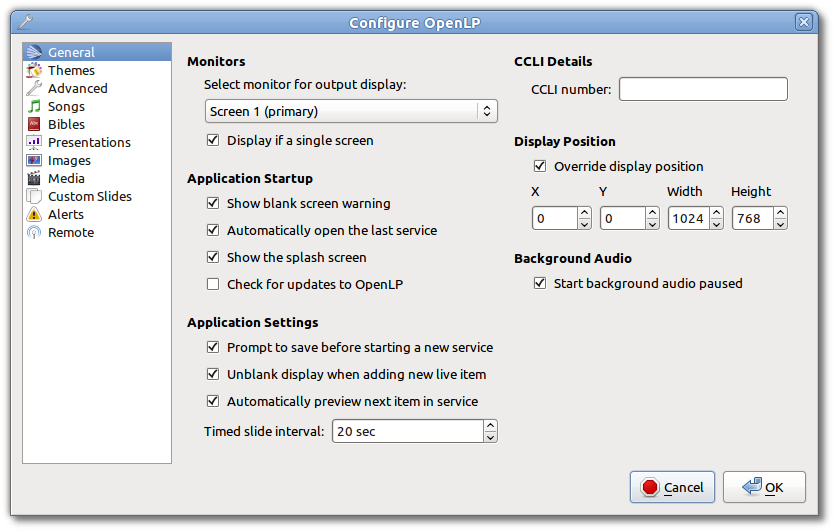
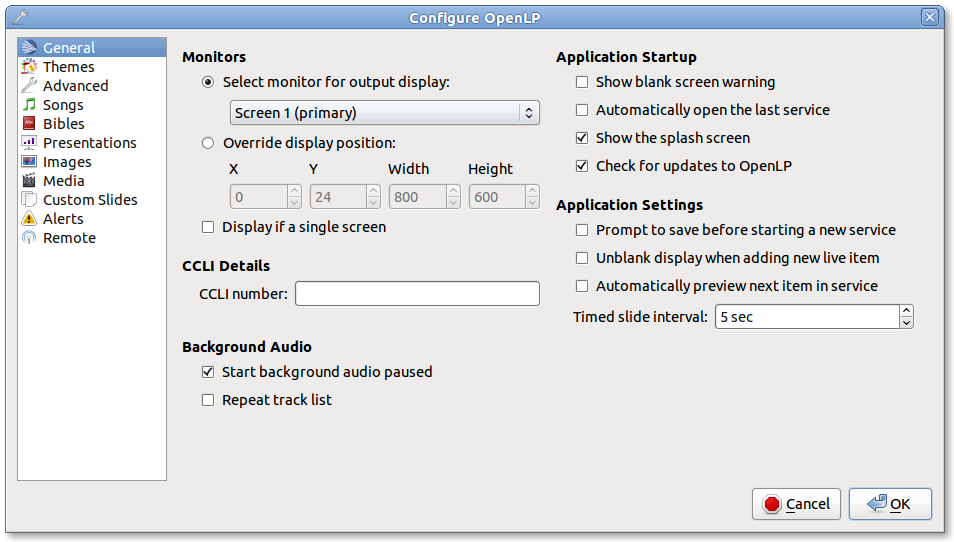
corrections to the configure settings

Changed region(s): [[0.0, 0.0, 1.0, 1.0], [0.1868, 0.6015, 0.5916, 0.8421], [0.1557, 0.8421, 0.1868, 0.8722]]

diff --git a/manual/source/configure.rst b/manual/source/configure.rst
@@ -22,12 +22,37 @@ Monitors
 To select the monitor you want to display OpenLP on, click the drop-down box 
 and choose. 
 
+Override Display Position
+^^^^^^^^^^^^^^^^^^^^^^^^^
+This setting will default to your computer monitor. It will override the output 
+display combo box.  If your projector display is different, select the Override 
+display position and make the changes here to match your projector display. This 
+option also comes in handy when you have the "Display if a single screen" box 
+selected. You can make the display smaller so it does not cover your whole 
+screen.
+
 Display if a single screen
 ^^^^^^^^^^^^^^^^^^^^^^^^^^ 
 
 When this box is selected, you will be able to see your display on a separate 
 window on the monitor you are using. Click the display and push the Esc key
 on your keyboard to close the display window.
+
+CCLI Details
+^^^^^^^^^^^^
+
+**CCLI number:**
+  If you subscribe to CCLI, this box is for your License number. This number is
+  also displayed in the Song Footer box.
+
+Background Audio
+^^^^^^^^^^^^^^^^
+
+**Start background audio paused:**
+  If you have a :ref:`songs_linked` assigned to a song, with this box selected
+  and when the song is displayed live, the audio will be paused until you start 
+  it using :ref:`linked-audio`. If this box is not selected the audio will play 
+  immediately when the song is displayed live.
 	
 Application Startup
 ^^^^^^^^^^^^^^^^^^^
@@ -71,31 +96,6 @@ Application Settings
   This setting is the time delay in seconds. This is used to continuously loop 
   a group of images, verses, or the lyrics in a song. This control timer is 
   also accessible on the :ref:`using_timer`
-
-CCLI Details
-^^^^^^^^^^^^
-
-**CCLI number:**
-  If you subscribe to CCLI, this box is for your License number. This number is
-  also displayed in the Song Footer box.
-
-Display Position
-^^^^^^^^^^^^^^^^
-This setting will default to your computer monitor. It will override the output 
-display combo box.  If your projector display is different, select the Override 
-display position and make the changes here to match your projector display. This 
-option also comes in handy when you have the "Display if a single screen" box 
-selected. You can make the display smaller so it does not cover your whole 
-screen.
-
-Background Audio
-^^^^^^^^^^^^^^^^
-
-**Start background audio paused:**
-  If you have a :ref:`songs_linked` assigned to a song, with this box selected
-  and when the song is displayed live, the audio will be paused until you start 
-  it using :ref:`linked-audio`. If this box is not selected the audio will play 
-  immediately when the song is displayed live.
 
 Themes
 ======
